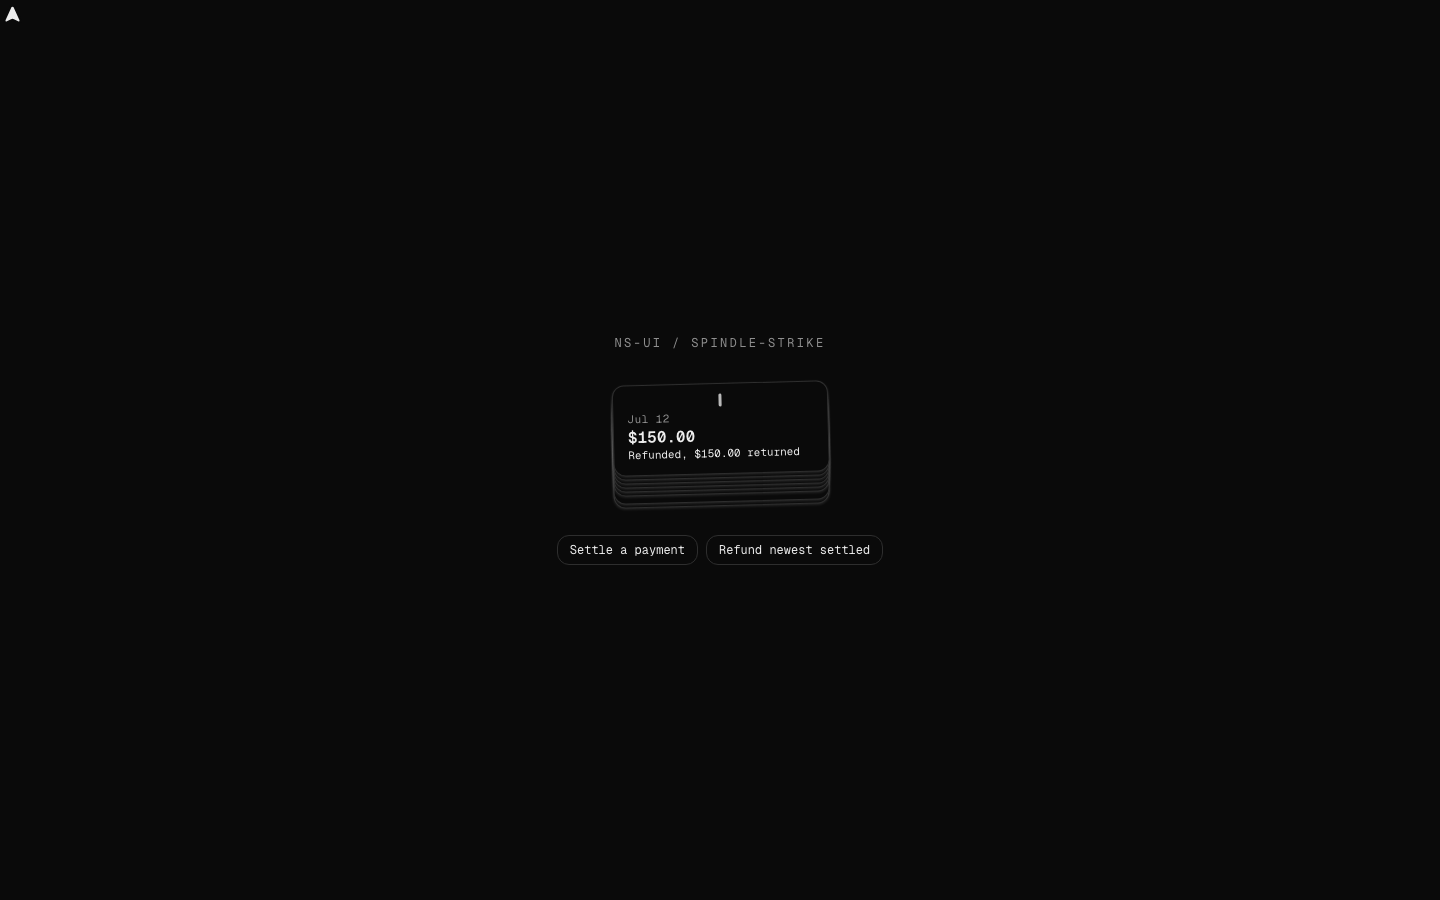
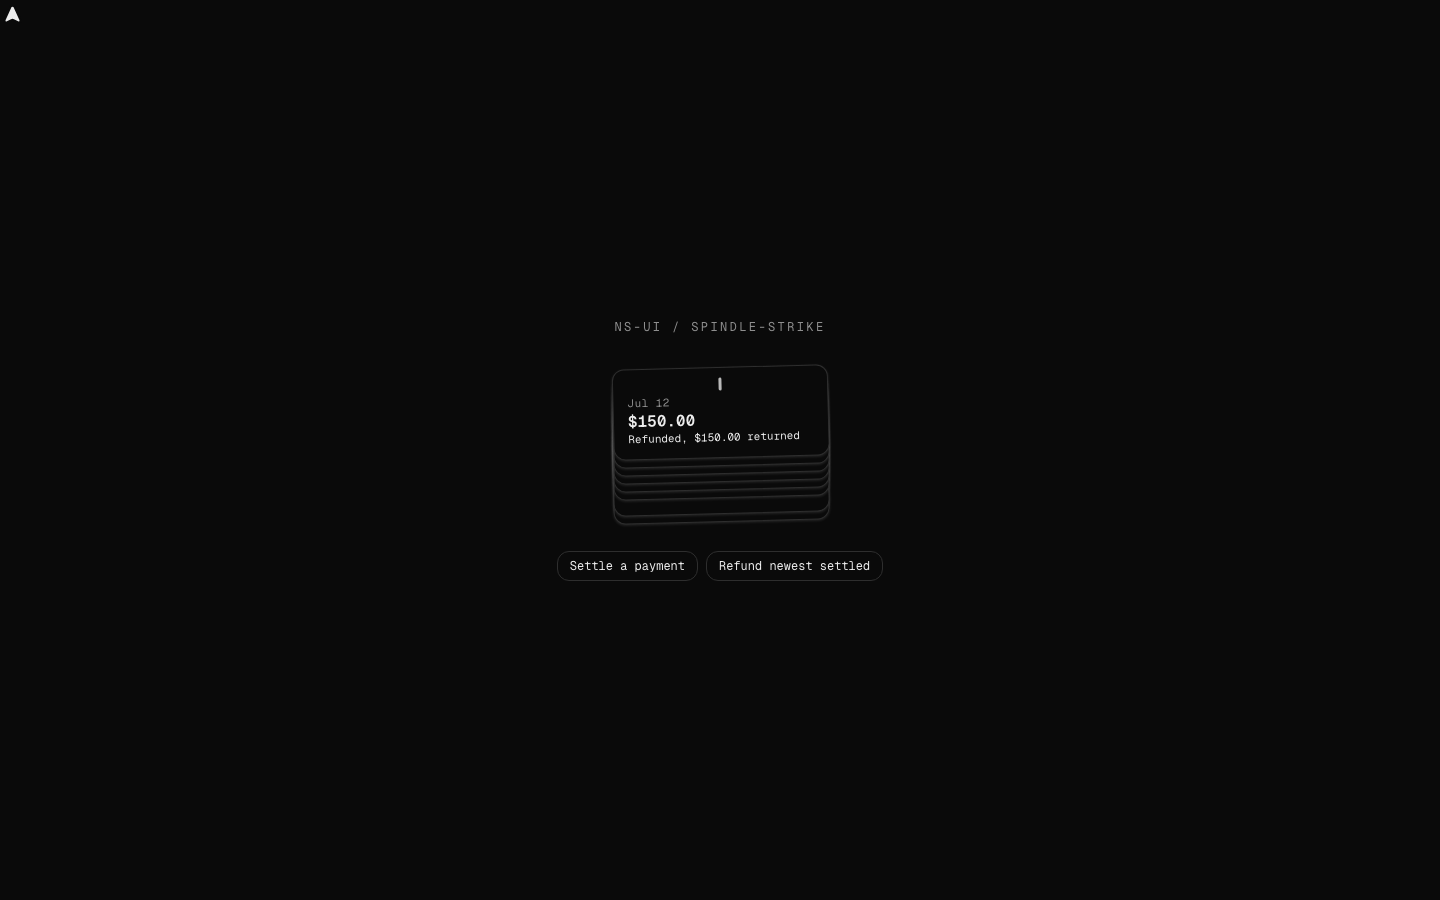
fix(r7-lab-2): dead buttons and a paint race
flyball-throttle: the demo never passed onNewPurchase/onRaiseLimit, so both
controls were literal no-ops — bit-identical geometry before and after a press.
Wired to real demo state; ball separation now moves ~20 units on a purchase.
spindle-strike: entering-offset was applied in useEffect + nested rAF, so the
browser often painted the new card at rest first and the entrance collapsed to
a ~1.5px blip. Moved to useLayoutEffect (pre-paint). Travel 40 to 90px, gap 4
to 8px, REFUND_LIFT expressed as 6*CARD_GAP so it tracks the gap.

Both: reduced-motion changed from transition:none to a short linear transition
— a state change is not the motion prefers-reduced-motion exists to suppress,
and an instant snap read as nothing happening.

verify 2/2 PASS, source-invariants PASS.

Claude-Session: https://claude.ai/code/session_01MGhZ2p6dTFuqCx4Lh7i6m9

Changed region(s): [[0.4062, 0.4356, 0.5938, 0.6533], [0.5, 0.3422, 0.5625, 0.4044]]

diff --git a/registry/core/spindle-strike/component.tsx b/registry/core/spindle-strike/component.tsx
@@ -1,13 +1,13 @@
 "use client";
 
-import { useEffect, useMemo, useRef, useState } from "react";
+import { useEffect, useLayoutEffect, useMemo, useRef, useState } from "react";
 
 // ---------------------------------------------------------------------------
 // SpindleStrike — payment history as a diner-receipt spindle. Every settled
 // transaction is a small card impaled on a shared 1px vertical spine
 // (--border), newest closest to the top. The whole thing hangs off ONE
 // governing scalar per card, `rawY` (px along the spine, computed once in
-// JS from that card's recency index * a 4px CARD_GAP), and everything else
+// JS from that card's recency index * an 8px CARD_GAP), and everything else
 // — translateY, z-index, and how far its ink has drifted from --foreground
 // toward --ns-muted — is derived from that same number, never chosen
 // independently. A brand-new settlement starts CARD_ENTER_DROP above its
@@ -45,9 +45,11 @@ import { useEffect, useMemo, useRef, useState } from "react";
 // translateY + z-index only (JS-tracked, not CSS transform on top of the
 // base transform, so it composes with rotation cleanly) — no scale, no
 // opacity change, so the receipt's text never shifts size under focus.
-// prefers-reduced-motion drops both the entrance drop and every transition
-// on transform/opacity (positions still update, they just snap); rotation,
-// being static already, is unaffected either way. Refunds fire one
+// prefers-reduced-motion shortens the entrance drop and every
+// transform/opacity/color transition to a brief, linear pass instead of
+// dropping them — positions still update, but as a short visible move
+// rather than an instant snap; rotation, being static already, is
+// unaffected either way. Refunds fire one
 // aria-live announcement naming the amount returned; each row also carries
 // a real <dl> (date/amount/status) so "refunded" is legible as text, not
 // only as position.
@@ -75,11 +77,19 @@ export interface SpindleStrikeProps {
   className?: string;
 }
 
-const CARD_GAP = 4; // px the stack shoves per settled receipt — the one shared scalar step
-const REFUND_LIFT = 24; // px an existing card is pulled back up the spine on refund
-const MAX_DARK_DEPTH = 56; // px of rawY at which the darken ramp maxes out
+const CARD_GAP = 8; // px the stack shoves per settled receipt — the one shared scalar step
+const REFUND_LIFT = 6 * CARD_GAP; // px an existing card is pulled back up the spine on refund —
+// kept as an exact multiple of CARD_GAP (not a literal) so a refund six settles back always ties
+// the very next new arrival's rawY regardless of CARD_GAP's value, which is what lets that new
+// card win z-order on the first "Settle a payment" press rather than several dead-looking ones.
+const MAX_DARK_DEPTH = 14 * CARD_GAP; // px of rawY at which the darken ramp maxes out — scales
+// with CARD_GAP so the same ~14-receipt pile depth still spans the full ramp instead of pegging
+// every card past the fourth or fifth at max darkness.
 const MAX_DARK_PCT = 62; // darkest a receipt gets — never fully --ns-muted, still legible
-const ENTER_DROP = 40; // px a newly-struck card starts above its landing spot
+const ENTER_DROP = 90; // px a newly-struck card starts above its landing spot at rest (full
+// travel, no-preference motion) — big enough that the strike reads as landing, not fading in.
+const ENTER_DROP_REDUCED = 14; // px equivalent under prefers-reduced-motion: reduce — a short,
+// small-amplitude offset (not zero) so a press still visibly moves rather than snapping silently.
 const CARD_WIDTH = 216;
 const CARD_HEIGHT = 88; // reserved layout height per card, top-of-stack
 
@@ -119,8 +129,20 @@ export function SpindleStrike({
   // Diff against the previous render to find newly-struck ids and any
   // settled -> refunded transitions — never derived from `turn`-less state,
   // so callers can add or refund in any order without extra bookkeeping.
-  useEffect(() => {
+  // useLayoutEffect, not useEffect: this must set the entering offset
+  // BEFORE the browser paints. A brand-new card's very first render
+  // otherwise commits at rest (entering hasn't been set yet, since a
+  // regular effect runs post-paint) and the browser paints that resting
+  // frame — so the offset that follows a moment later is read as an
+  // actual FROM-rest transition, which the retarget-to-rest then
+  // interrupts almost immediately. Measured: with useEffect, the drop
+  // collapsed to a ~1px blip regardless of ENTER_DROP's value, worst on
+  // the reduced-motion path where the short transition leaves no room to
+  // recover. With useLayoutEffect, entering is already true by the first
+  // paint, so the offset is the genuine starting point, no false start.
+  useLayoutEffect(() => {
     const prev = prevStatusRef.current;
+    let clearTimer: ReturnType<typeof setTimeout> | undefined;
     if (mountedRef.current) {
       const added: string[] = [];
       let refundedNow: SpindleTransaction | null = null;
@@ -129,13 +151,19 @@ export function SpindleStrike({
         if (before === undefined) added.push(t.id);
         else if (before === "settled" && t.status === "refunded") refundedNow = t;
       }
-      if (added.length > 0 && !reducedMotion) {
+      if (added.length > 0) {
+        // Reduced motion still gets an entering pass — just a short one
+        // (ENTER_DROP_REDUCED, a fast linear CSS transition below) instead
+        // of skipping straight to rest. A silent snap reads identically to
+        // "nothing happened" to anyone who can't see the drop; a brief,
+        // small-amplitude move reads as the strike landing without the
+        // spring overshoot.
         setEnteringIds(new Set(added));
-        // Clear one frame later so the transition actually plays from the
-        // ENTER_DROP start instead of committing straight to rest.
-        requestAnimationFrame(() => {
-          requestAnimationFrame(() => setEnteringIds(new Set()));
-        });
+        // A fixed, frame-independent hold before retargeting to rest — long
+        // enough that the offset has definitely painted (this effect firing
+        // pre-paint already guarantees that) and definitely started
+        // transitioning before it reverses.
+        clearTimer = setTimeout(() => setEnteringIds(new Set()), 32);
       }
       if (refundedNow) {
         const back = refundedNow.refundedAmount ?? refundedNow.amount;
@@ -144,6 +172,9 @@ export function SpindleStrike({
     }
     prevStatusRef.current = new Map(transactions.map((t) => [t.id, t.status]));
     mountedRef.current = true;
+    return () => {
+      if (clearTimer) clearTimeout(clearTimer);
+    };
   }, [transactions, reducedMotion]);
 
   // Recency index among ALL receipts (refunded ones included), newest = 0.
@@ -184,7 +215,7 @@ export function SpindleStrike({
   padding:20px 14px 12px;
   border-radius:12px;
   box-shadow:0 1px 3px color-mix(in srgb, var(--foreground) 14%, transparent);
-  transition:transform 500ms cubic-bezier(.34,1.56,.64,1), opacity 420ms ease-out, color 500ms ease-out;
+  transition:transform 560ms cubic-bezier(.34,1.56,.64,1), opacity 460ms ease-out, color 560ms ease-out;
   cursor:default;
 }
 .ns-spindle-card:focus-visible{outline:2px solid var(--ns-accent);outline-offset:2px}
@@ -199,7 +230,7 @@ export function SpindleStrike({
   transform:translate(-50%,-50%) scale(1);
   opacity:1;
   transition:width 320ms cubic-bezier(.22,1,.36,1), height 320ms cubic-bezier(.22,1,.36,1),
-    opacity 160ms ease-out 340ms, transform 160ms cubic-bezier(.34,1.56,.64,1) 340ms;
+    opacity 160ms ease-out 380ms, transform 160ms cubic-bezier(.34,1.56,.64,1) 380ms;
 }
 .ns-spindle-card[data-status="refunded"] .ns-spindle-puncture{width:3px;height:13px;border-radius:9999px}
 .ns-spindle-card[data-entering="true"] .ns-spindle-puncture{opacity:0;transform:translate(-50%,-50%) scale(.25)}
@@ -210,7 +241,12 @@ export function SpindleStrike({
 .ns-spindle-status{font-family:var(--font-mono);font-size:11px;color:var(--ns-muted)}
 .ns-spindle-card[data-status="refunded"] .ns-spindle-status{color:inherit}
 @media (prefers-reduced-motion: reduce){
-  .ns-spindle-card,.ns-spindle-puncture{transition:none!important}
+  /* Not a snap: the strike still needs to read as a card landing, just
+     short and linear instead of the 560ms spring overshoot — small-scale
+     UI motion on transform/opacity/color, not the ambient or parallax
+     motion prefers-reduced-motion exists to suppress. */
+  .ns-spindle-card{transition:transform 160ms linear, opacity 140ms linear, color 160ms linear!important}
+  .ns-spindle-puncture{transition:width 140ms linear, height 140ms linear, opacity 100ms linear 60ms, transform 100ms linear 60ms!important}
 }
 `}</style>
 
@@ -224,7 +260,8 @@ export function SpindleStrike({
           const refunded = t.status === "refunded";
           const entering = enteringIds.has(t.id);
           const lifted = focusedId === t.id;
-          const y = (entering ? restY - ENTER_DROP : restY) - (lifted ? 2 : 0);
+          const enterOffset = reducedMotion ? ENTER_DROP_REDUCED : ENTER_DROP;
+          const y = (entering ? restY - enterOffset : restY) - (lifted ? 2 : 0);
           const rot = hashRotation(t.id);
           const darkPct = (clamp(rawY, 0, MAX_DARK_DEPTH) / MAX_DARK_DEPTH) * MAX_DARK_PCT;
           const zIndex = lifted ? 6000 : Math.round(3000 - rawY);

diff --git a/registry/core/flyball-throttle/demo.tsx b/registry/core/flyball-throttle/demo.tsx
@@ -17,9 +17,48 @@ const STEPS = [
   { spendRate: 15, cap: 900, periodDays: 30, spent: 400 }, // cools back to calm
 ];
 
+// The two real action buttons ("New purchase", "Raise limit") called
+// onNewPurchase/onRaiseLimit but nothing was wired to them, so pressing
+// either was a pure no-op — the arms never moved. cycleIndex still drives
+// the NEXT button exactly as before (mount + one click == STEPS[1], the
+// capped state the verifier's gate clicks into); `live` is now a separate,
+// independently-mutable scenario so the two real buttons can move it.
+// New purchase bumps the burn rate (a purchase raises spend velocity, not
+// just the spent total) in steps sized so 3-4 presses each produce a
+// visible arm-angle change before the 68deg linkage ceiling clamps it.
+// Raise limit widens the cap, which — since omega = spendRate / (cap /
+// periodDays) — lowers omega and lets the arms retreat toward the 13deg
+// hinge floor; that pull is real physics but has little room to show from
+// an already-calm resting state (see AGENTS-facing session notes), so it
+// reads clearest right after a purchase has flared the governor open.
+const NEW_PURCHASE_SPEND_STEP = 12; // $/day per press
+const NEW_PURCHASE_SPENT_STEP = 40; // $ per press
+const RAISE_LIMIT_CAP_MULT = 1.9;
+
 export default function FlyballThrottleDemo() {
-  const [step, setStep] = useState(0);
-  const scenario = STEPS[step % STEPS.length] ?? STEPS[0]!;
+  const [cycleIndex, setCycleIndex] = useState(0);
+  const [live, setLive] = useState(STEPS[0]!);
+  const scenario = live;
+
+  function handleCycle() {
+    setCycleIndex((i) => {
+      const ni = (i + 1) % STEPS.length;
+      setLive(STEPS[ni]!);
+      return ni;
+    });
+  }
+
+  function handleNewPurchase() {
+    setLive((s) => ({
+      ...s,
+      spendRate: s.spendRate + NEW_PURCHASE_SPEND_STEP,
+      spent: Math.min(s.cap, s.spent + NEW_PURCHASE_SPENT_STEP),
+    }));
+  }
+
+  function handleRaiseLimit() {
+    setLive((s) => ({ ...s, cap: Math.round(s.cap * RAISE_LIMIT_CAP_MULT) }));
+  }
 
   return (
     <main className="flex min-h-screen items-center justify-center bg-background p-6">
@@ -43,6 +82,8 @@ export default function FlyballThrottleDemo() {
             cap={scenario.cap}
             periodDays={scenario.periodDays}
             spent={scenario.spent}
+            onNewPurchase={handleNewPurchase}
+            onRaiseLimit={handleRaiseLimit}
           />
         </div>
 
@@ -53,7 +94,7 @@ export default function FlyballThrottleDemo() {
           <button
             type="button"
             data-flyball-cycle
-            onClick={() => setStep((s) => s + 1)}
+            onClick={handleCycle}
             className="rounded-sm border border-border px-3 py-1.5 font-mono text-[11px] tracking-widest text-ns-muted transition-colors duration-200 hover:border-foreground/20 hover:text-foreground focus-visible:outline-2 focus-visible:outline-offset-2 focus-visible:outline-ns-accent"
           >
             NEXT

diff --git a/registry/core/flyball-throttle/component.tsx b/registry/core/flyball-throttle/component.tsx
@@ -219,7 +219,12 @@ export function FlyballThrottle({
   transform-origin:${CX}px ${ARM_PIVOT_Y}px;
 }
 @media (prefers-reduced-motion: reduce){
-  .ns-flyball-part{transition:none !important}
+  /* Not a snap: a state change (a press moving omega) still needs to read as
+     movement, just without the ambient never-ending spin blur, which is the
+     part reduced-motion is actually meant to suppress. Short, linear, no
+     overshoot — small-amplitude SVG attribute interpolation, not parallax
+     or anything vestibular. */
+  .ns-flyball-part{transition-duration:120ms !important; transition-timing-function:linear !important}
   .ns-flyball-spin-group{animation:none !important}
 }
 `}</style>
